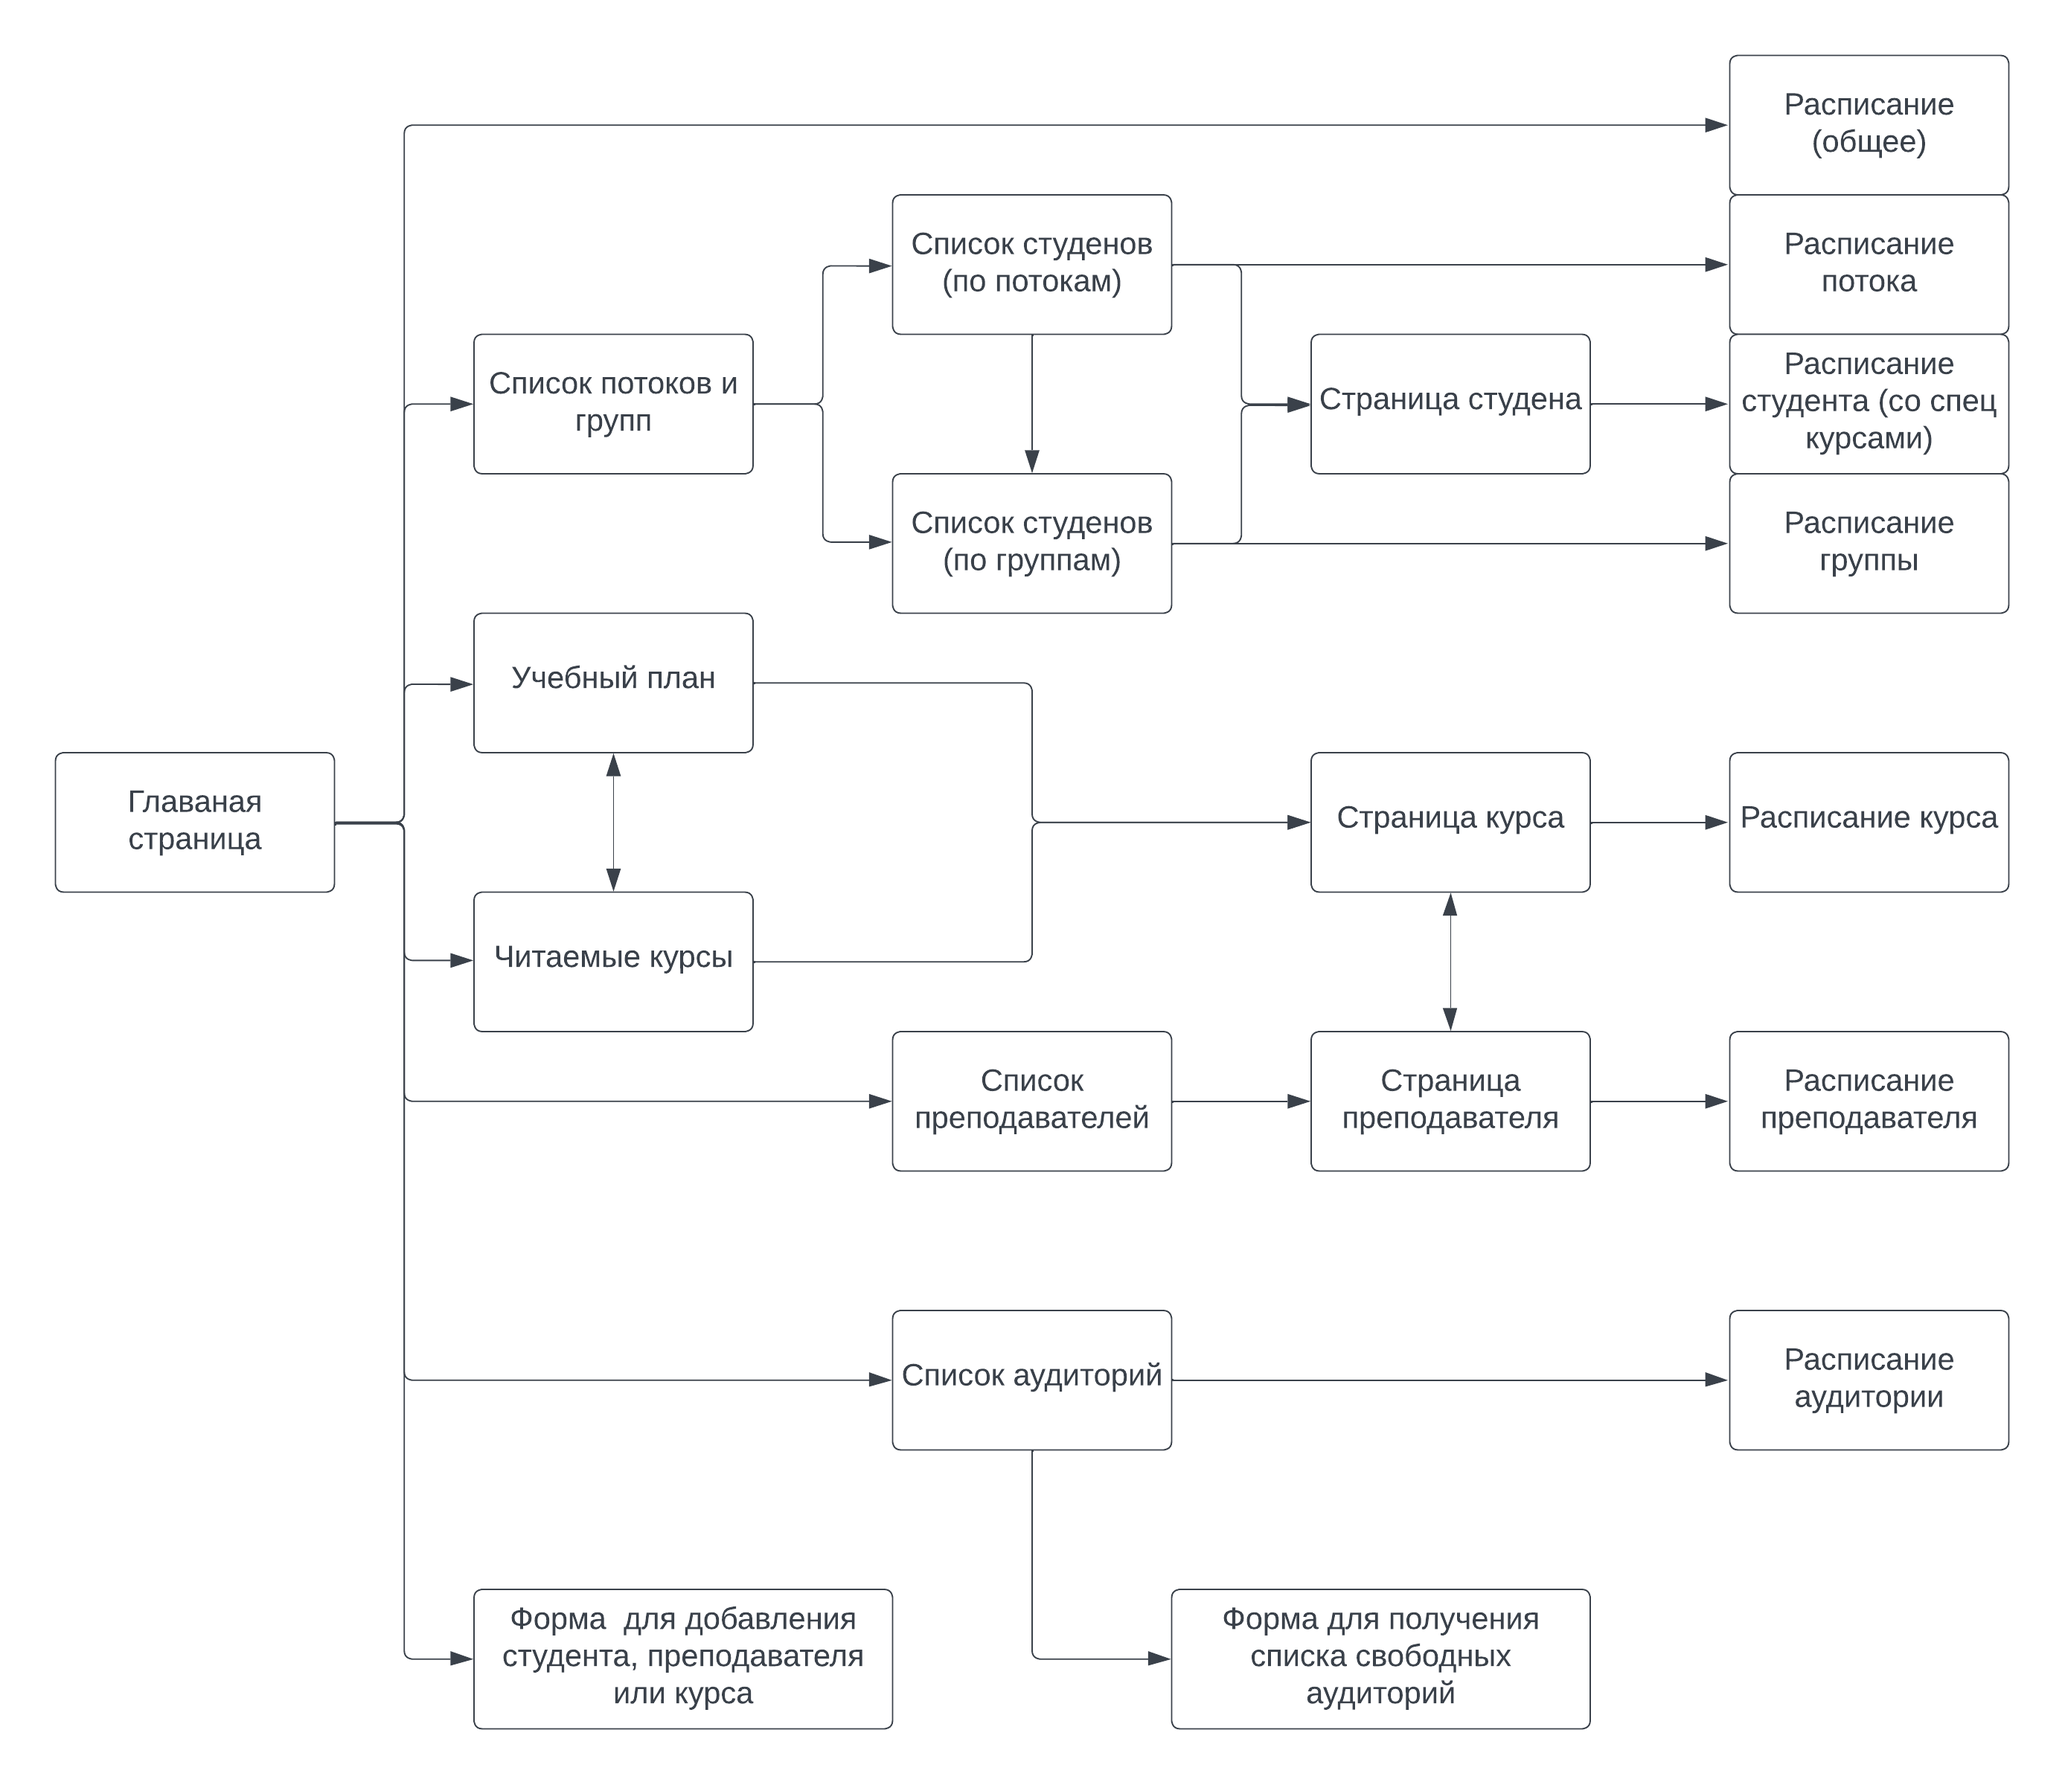
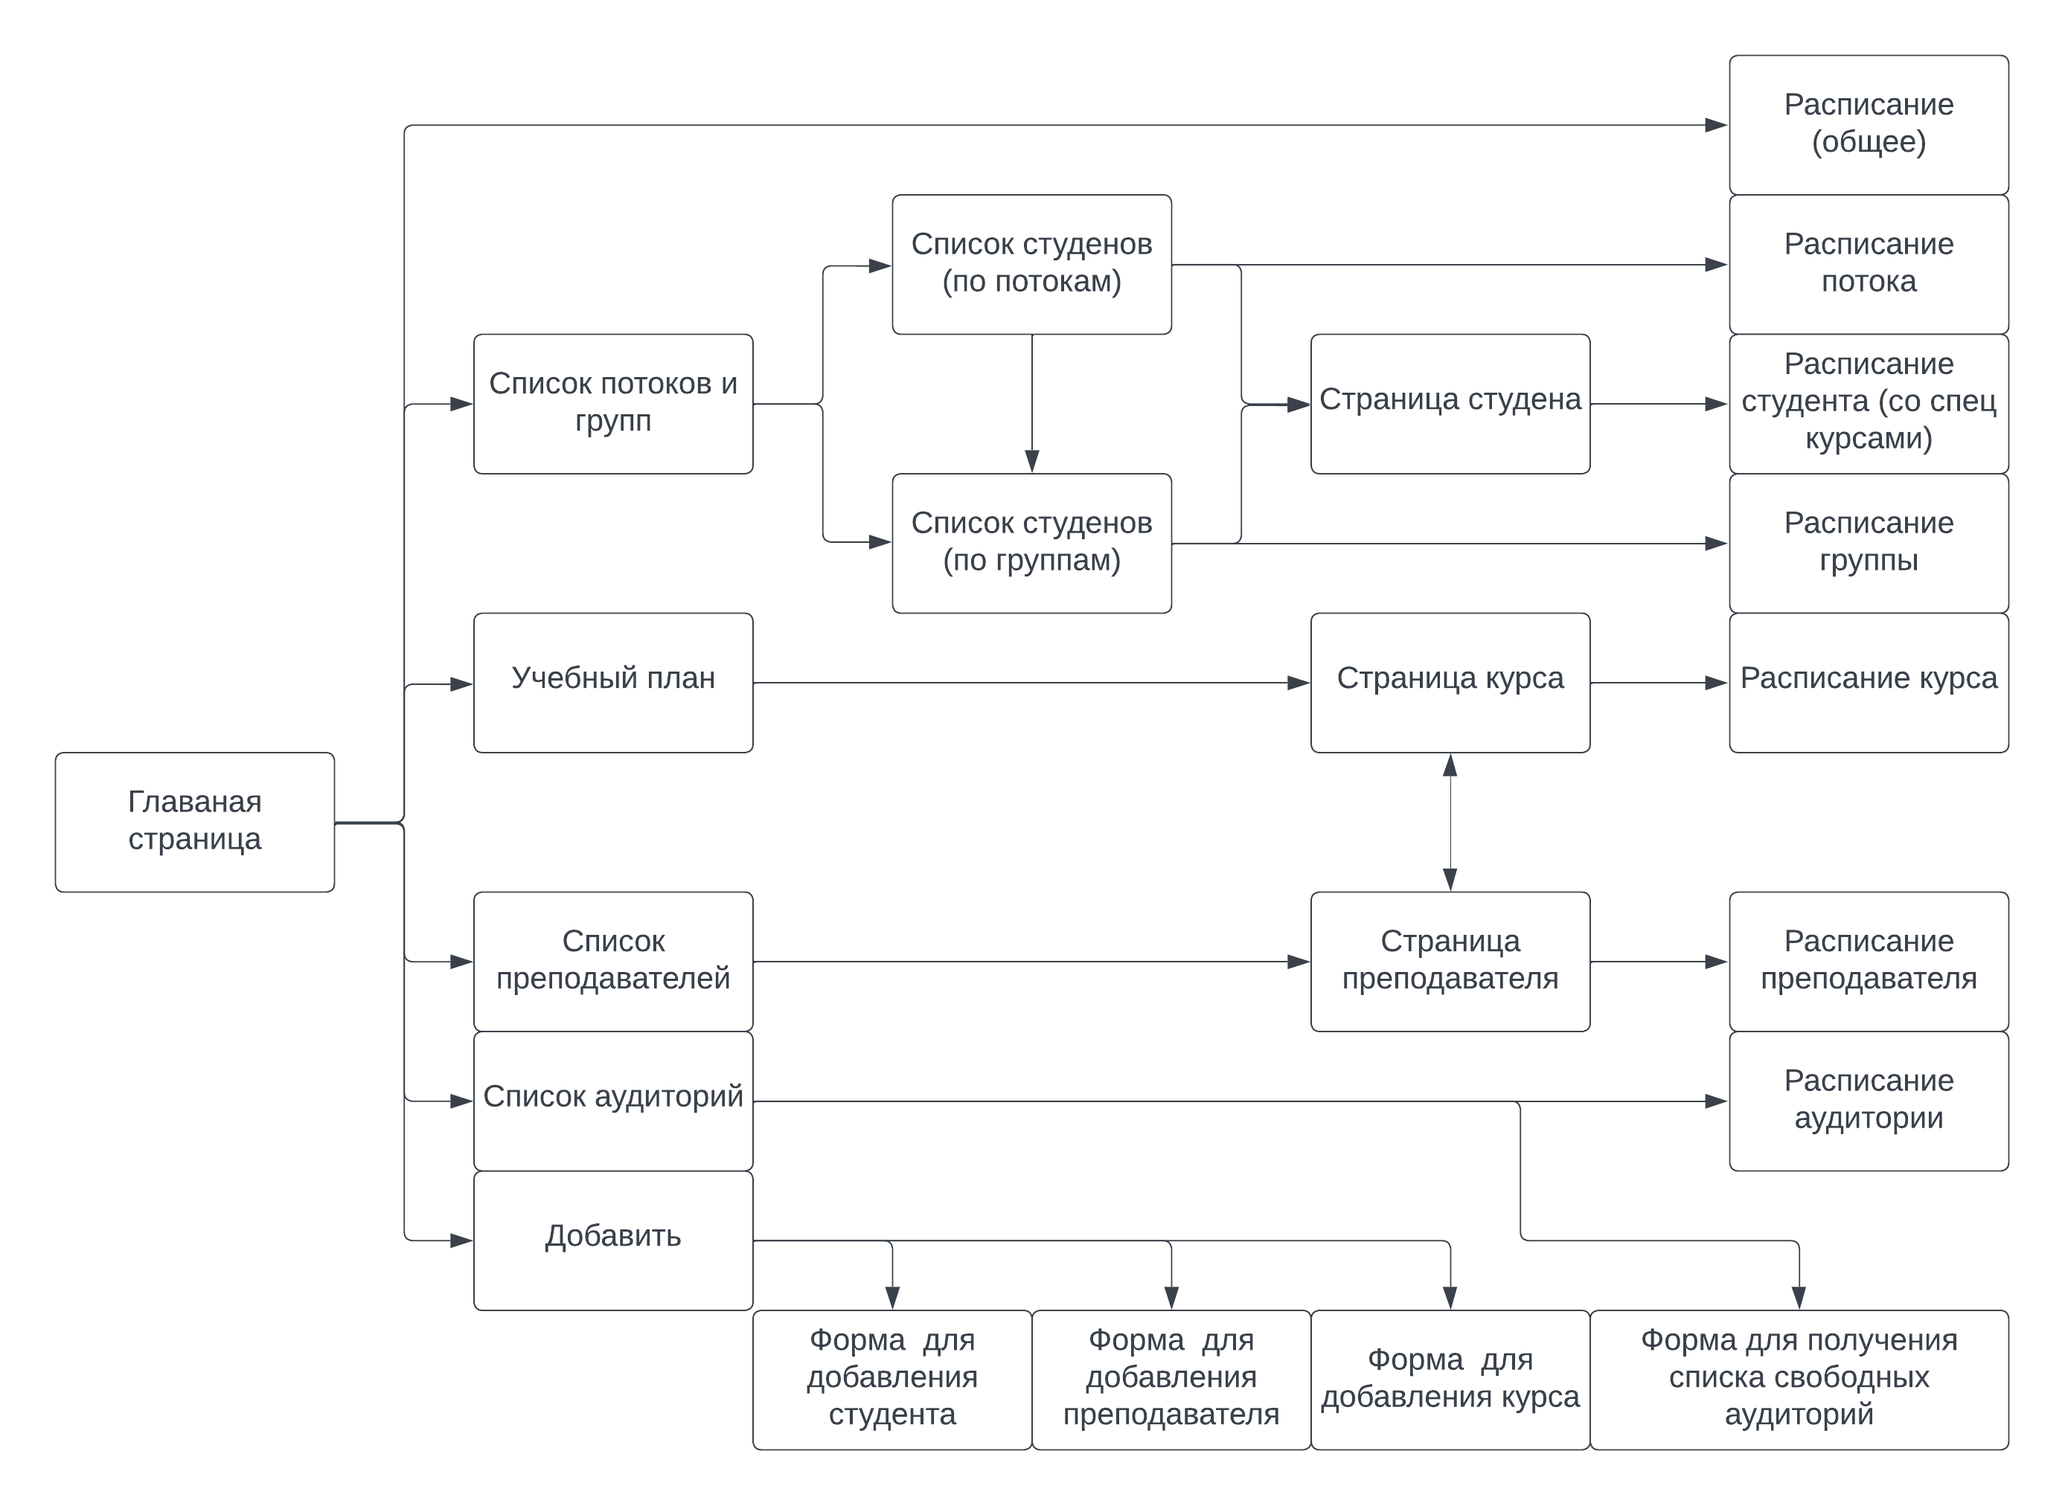
Update navigation

diff --git a/README.md b/README.md
@@ -98,7 +98,7 @@
 
  * Ссылка на список аудиторий
 
- * Ссылка на форму для добавления студента, преподавателя или курса
+ * Ссылка на страницу для добавления студента, преподавателя или курса
 
 ### Страницы-списки
 
@@ -110,6 +110,16 @@
 
  * Содержат расписания указанного содержимого
 
+ * Представляет из себя таблицы, соответствующие разным курсам
+
+ * Столбцы таблицы - номера групп
+
+ * Строки таблицы - временные промежутки, соответствующие парам, сгруппированные по дням недели
+
+ * Ячейка таблицы соответствует занятию, проходящему в данное время данной группы
+
+ * Ячейка содержит название курса, имя преподавателя, номер аудитории
+
 ### Страницы студентов
 
  * ФИО студента
@@ -118,11 +128,15 @@
 
  * Какие курсы и когда посещал
 
+ * Содержит кнопку для редактирования страницы
+
 ### Станицы преподавателей
 
  * ФИО преподавателя
 
  * Проводимые курсы
+
+ * Содержит кнопку для редактирования страницы
 
 ### Страницы курсов
 
@@ -134,9 +148,21 @@
 
  * Год обучения (для обязательных)
 
+ * Содержит кнопку для редактирования страницы
+
 ### Учебный план
 
  * Содержит таблицу по семестрам с курсами и их интенсивностью
+
+ * Содержит список спец. курсов
+
+### Добавить
+
+ * Ссылка на форму для добавления студента
+
+ * Ссылка на форму для добавления преподавателя
+
+ * Ссылка на форму для добавления курса
 
 ## Схема базы данных
 ![alt text](docs/db.png)
